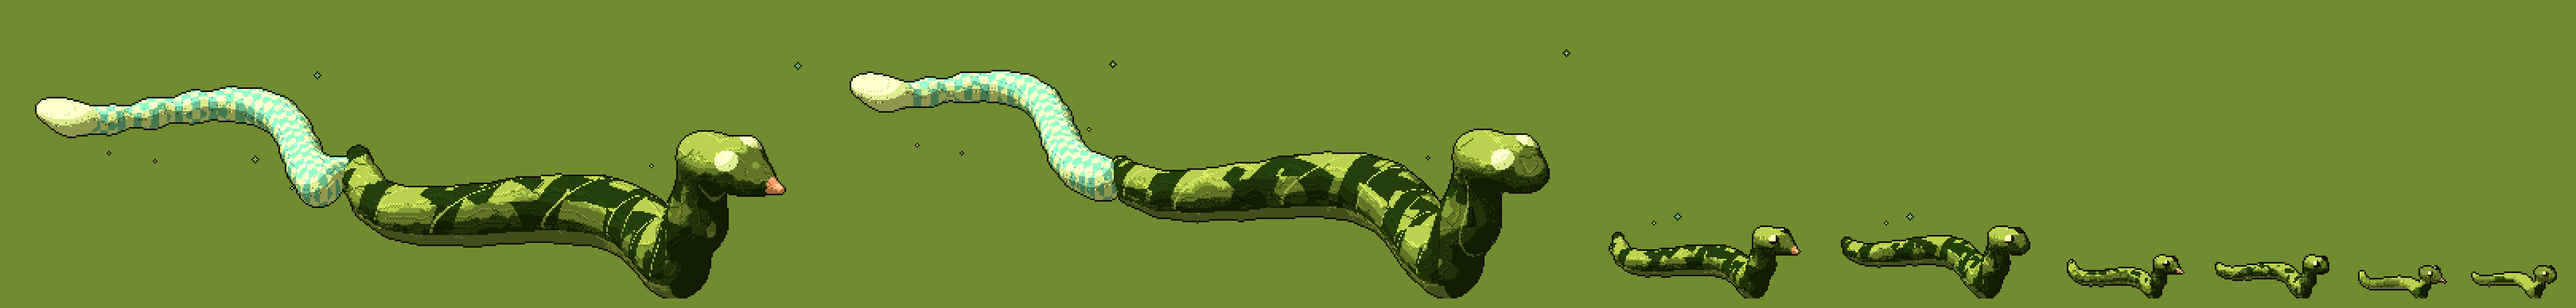
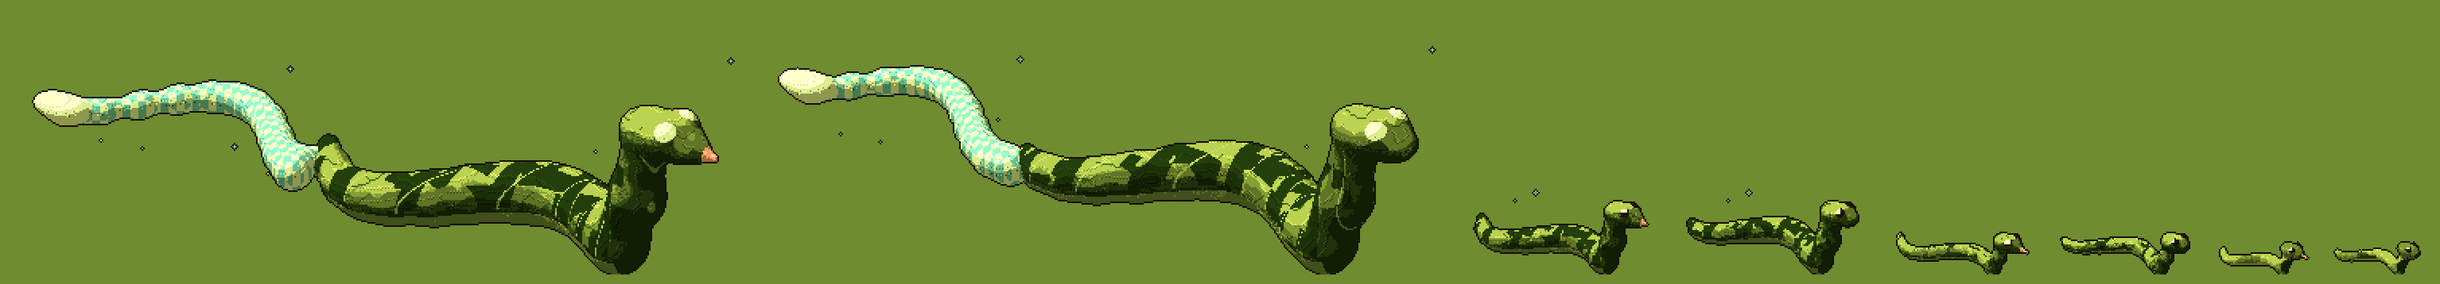
The snake's young a slim whip and its adult heavier with its head held higher (the art check's growth step young→adult 0.15 → 0.43); before/after sheets redrawn (the heron's lantern lit)
Claude-Session: https://claude.ai/code/session_01Bjkncrw3UwUjcmr8Y3vdKy

Changed region(s): [[0.3107, 0.2086, 0.9944, 0.9832], [0.0, 0.2682, 0.3107, 0.9832]]

diff --git a/art/creatures3d.js b/art/creatures3d.js
@@ -1641,13 +1641,14 @@ export function woodlouse3d(S, level, frame, st, facing = "towards") {
 
 export function snake3d(S, level, frame, st, facing = "towards") {
   const legend = level === 3, baby = level === 0, young = level === 1, has = f => legend && S.legend.includes(f), m = new Model(), ph = frame ? .7 : 0, pts = [];
-  for (let i = 0; i <= 12; i++) { const t = i / 12; pts.push([-.9 + t * 1.2, .07, Math.sin(t * Math.PI * 2 + ph) * .25 * (1 - t * .5), .03 + .045 * Math.sin(Math.min(1, t * 1.4) * Math.PI / 2)]); }
-  pts.push([.38, .25, pts[12][2], .07], [.42, .45, pts[12][2] * .8, .065]);
+  const girth = [.9, .82, 1, 1][level], rise = [1, .85, 1.15, 1.15][level]; // (the young a slim whip, the adult heavy, its head held high)
+  for (let i = 0; i <= 12; i++) { const t = i / 12; pts.push([-.9 + t * 1.2, .07, Math.sin(t * Math.PI * 2 + ph) * .25 * (1 - t * .5), (.03 + .045 * Math.sin(Math.min(1, t * 1.4) * Math.PI / 2)) * girth]); }
+  pts.push([.38, .07 + .18 * rise, pts[12][2], .07 * girth], [.42, .07 + .38 * rise, pts[12][2] * .8, .065 * girth]);
   // (Ed's review, 2026-10-13: "the baby and young are copies") its pattern comes in with age: the hatchling plain, the young
   // faintly spotted, the adult's spots and dark bands across its back; and the hatchling's head big for its body
   const spots = baby ? 0 : young ? .15 : .3, bands = level >= 2;
   m.chain(pts, M.BODY, { paint: p => has("shed") && Math.abs(Math.sin(p[0] * 19 + p[2] * 9)) < .05 && p[1] > .06 ? M.BELLY : p[1] < .05 && p[0] < .35 ? M.BELLY : (bands && p[1] > .07 && Math.sin(p[0] * 26) > .72) || (spots && spotty([p[0] * 1.5, p[1], p[2]], 14, spots)) ? M.BODY3 : undefined });
-  const hc = [.5, .5, pts[13][2] * .8], hr = baby ? .13 : young ? .105 : .09;
+  const hc = [.5, .07 + .43 * rise, pts[13][2] * .8], hr = baby ? .13 : young ? .105 : .09;
   m.rig = { spine: pts.map(p => p.slice()), head: hc, hr }; // the live rig's spine (tail to head, each [x, y, z, radius]) and head, in model units
   m.part = "head";
   m.ell(hc, [hr * 1.5, hr * .75, hr], M.BODY, { dir: [1, -.15, 0], group: 1 });
